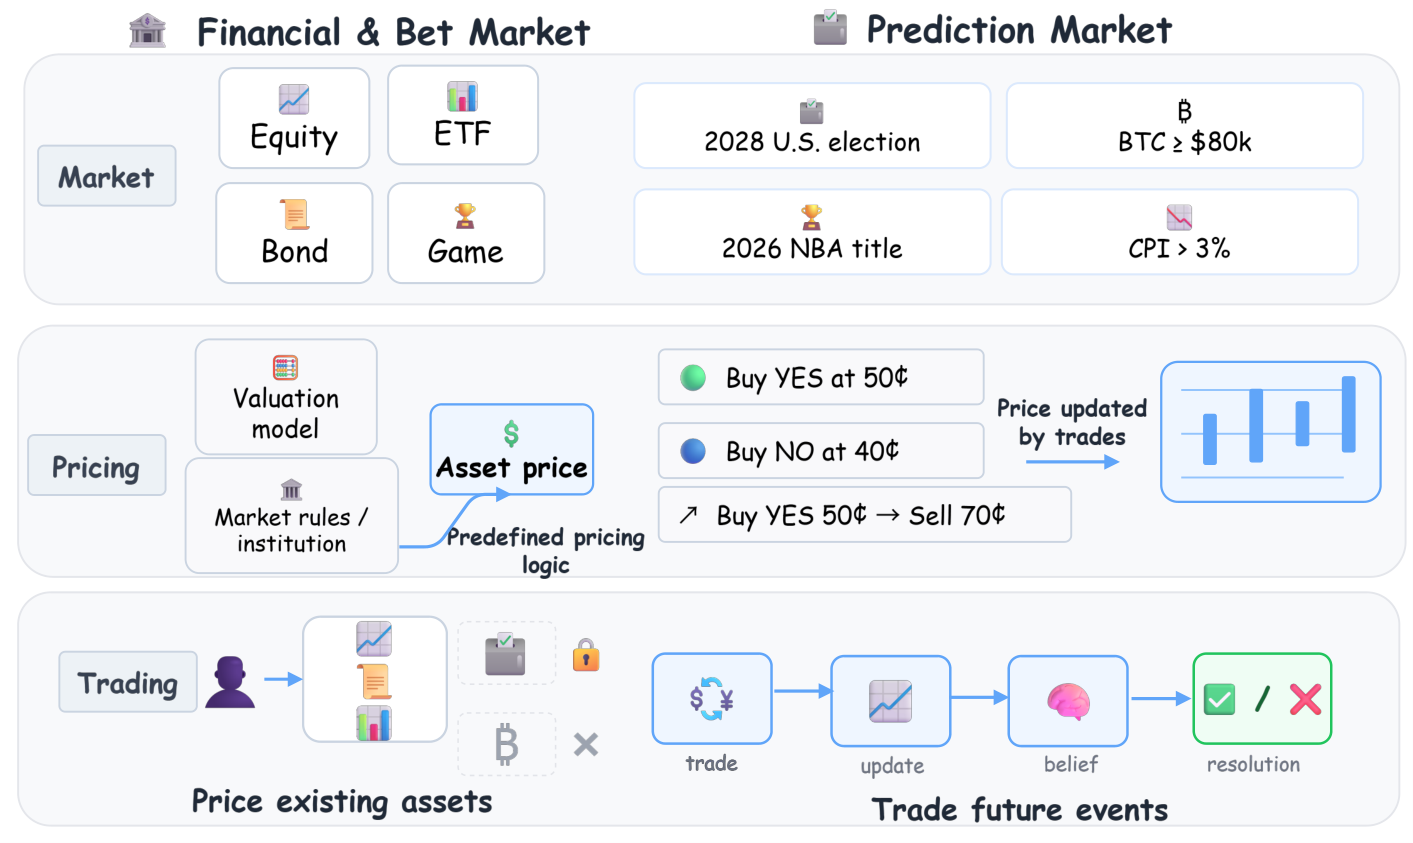
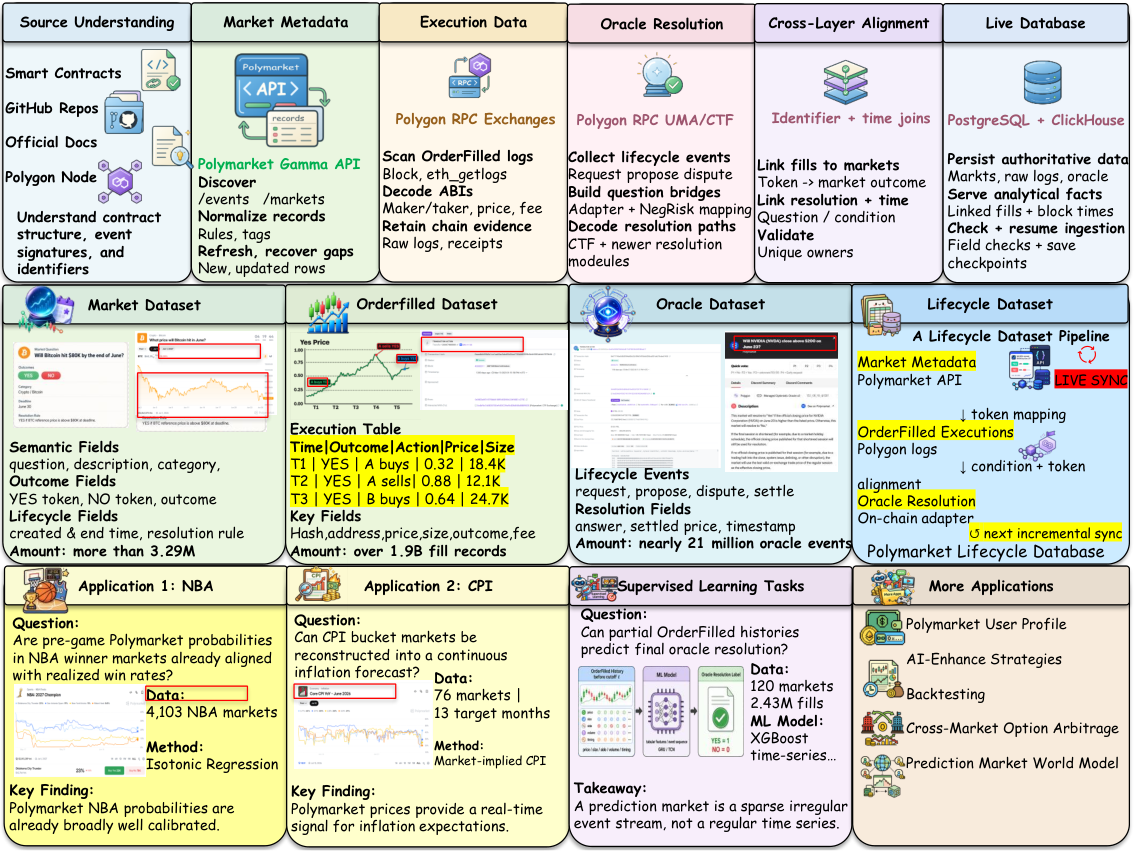
Update publications, news, and the undergraduate dates.
Add AlphaOpsBench and the FS2M figure, mark TxSum and the event-aware paper as accepted, and refresh the forecasting-economy teaser.

diff --git a/_pages/about.md b/_pages/about.md
@@ -18,32 +18,48 @@ Beyond research, I am an enthusiastic participant in hackathons and technical co
 
 # 🔥 News
 
-- *2026.04*: Preprint on a full-lifecycle dataset for Polymarket, from market creation through oracle settlement. [Paper](https://arxiv.org/abs/2604.20421) / [Project](https://www.polymonitor.club/)
-- *2026.04*: Preprint on event-aware forecasting over 8.9 million on-chain events from Pendle, Uniswap v3, Aave, and Morpho. [Paper](https://arxiv.org/abs/2604.20374)
+- *2026.09*: **AlphaOpsBench**: Benchmarking End-to-End Alpha Strategy Operationalization in Prediction Markets. [Paper](https://arxiv.org/abs/2609.31390)
+- *2026.09*: **Unlocking the Forecasting Economy: A Suite of Datasets for the Full Lifecycle of Prediction Market: [Experiments & Analysis]**. [Paper](https://arxiv.org/abs/2604.20421) / [Project](https://www.polymonitor.club/)
+- *2026*: **Towards Event-Aware Forecasting in DeFi** accepted at **KDD 2026**. [Paper](https://arxiv.org/abs/2604.20374)
 - *2026.02*: AlphaForgeBench, a benchmark that asks language models to write executable trading strategies, to appear at **KDD 2026**. [Paper](https://arxiv.org/abs/2602.18481)
-- *2025.12*: TxSum preprint on user-centered explanations of Ethereum transactions. [Paper](https://arxiv.org/abs/2512.06933)
+- *2026*: **TxSum** accepted at **EMNLP 2026**. [Paper](https://arxiv.org/abs/2512.06933)
 - *2024.11*: **FS2M** published in the *International Journal of Web Information Systems*. [Paper](https://doi.org/10.1108/IJWIS-06-2024-0169)
 
 <span class='anchor' id='publications'></span>
 
 # 📝 Publications
 
+<div class='paper-box'><div class='paper-box-image'><div><div class="badge">arXiv 2026</div><img src='images/publications/alphaops.png' alt="AlphaOpsBench" width="100%"></div></div>
+<div class='paper-box-text' markdown="1">
+
+AlphaOpsBench: Benchmarking End-to-End Alpha Strategy Operationalization in Prediction Markets
+
+**Huaiyu Jia**, Mingxuan Zhao, Jincheng Gao, Zifan Peng, Wentao Zhang, Siguang Li, Shuo Sun
+
+[**Paper**](https://arxiv.org/abs/2609.31390)
+
+- Tests whether a language model can turn a coarse prediction-market idea into an auditable executable program.
+- Built on 581 source-preserving strategy records and a lifecycle-scale Polymarket dataset, comparing direct generation with a staged design-then-code protocol.
+
+</div>
+</div>
+
 <div class='paper-box'><div class='paper-box-image'><div><div class="badge">arXiv 2026</div><img src='images/publications/forecasting.png' alt="Forecasting Economy" width="100%"></div></div>
 <div class='paper-box-text' markdown="1">
 
-Unlocking the Forecasting Economy: A Suite of Datasets for the Full Lifecycle of Prediction Market
+Unlocking the Forecasting Economy: A Suite of Datasets for the Full Lifecycle of Prediction Market: [Experiments & Analysis]
 
 **\*Huaiyu Jia**, \*Luofeng Zhou, Wentao Zhang, Lin William Cong, Siguang Li, Shuo Sun
 
 [**Paper**](https://arxiv.org/abs/2604.20421) | [**Code**](https://github.com/virusLuke3/polymonitor) | [**Project**](https://www.polymonitor.club/)
 
-- A continuously maintained relational dataset of Polymarket, covering market metadata, fill-level trades, and oracle resolution from October 2020 to March 2026.
-- The public interface is [PolyMonitor](https://www.polymonitor.club/). Huaiyu Jia and Luofeng Zhou contributed equally.
+- A continuously synchronized Polymarket lifecycle dataset from October 2020 onward: 3.29 million markets, 1.90 billion fills, and 21 million oracle events.
+- Experiments cover NBA calibration, CPI expectation reconstruction, and resolution prediction. The public interface is [PolyMonitor](https://www.polymonitor.club/). Huaiyu Jia and Luofeng Zhou contributed equally.
 
 </div>
 </div>
 
-<div class='paper-box'><div class='paper-box-image'><div><div class="badge">arXiv 2026</div><img src='images/publications/amm.png' alt="Event-aware AMM forecasting" width="100%"></div></div>
+<div class='paper-box'><div class='paper-box-image'><div><div class="badge">KDD 2026</div><img src='images/publications/amm.png' alt="Event-aware AMM forecasting" width="100%"></div></div>
 <div class='paper-box-text' markdown="1">
 
 Towards Event-Aware Forecasting in DeFi: Insights from On-chain Automated Market Maker Protocols
@@ -73,7 +89,7 @@ Wentao Zhang, Mingxuan Zhao, Jincheng Gao, Jieshun You, **Huaiyu Jia**, Yilei Zh
 </div>
 </div>
 
-<div class='paper-box'><div class='paper-box-image'><div><div class="badge">arXiv 2025</div><img src='images/publications/txsum.png' alt="TxSum" width="100%"></div></div>
+<div class='paper-box'><div class='paper-box-image'><div><div class="badge">EMNLP 2026</div><img src='images/publications/txsum.png' alt="TxSum" width="100%"></div></div>
 <div class='paper-box-text' markdown="1">
 
 TxSum: User-Centered Ethereum Transaction Understanding with Micro-Level Semantic Grounding
@@ -88,7 +104,8 @@ Zifan Peng, Jingyi Zheng, Yule Liu, **Huaiyu Jia**, Qiming Ye, Jingyu Liu, Xufen
 </div>
 </div>
 
-<div class='paper-box'><div class='paper-box-text' markdown="1">
+<div class='paper-box'><div class='paper-box-image'><div><div class="badge">IJWIS 2025</div><img src='images/publications/fs2m.png' alt="FS2M" width="100%"></div></div>
+<div class='paper-box-text' markdown="1">
 
 FS2M: Fuzzy Smart IoT Device Pairing Protocol via Speak to Microphone
 
@@ -117,4 +134,4 @@ FS2M: Fuzzy Smart IoT Device Pairing Protocol via Speak to Microphone
 # 📖 Education
 
 - *2024.09 - Present*, **Ph.D. in FinTech**, [The Hong Kong University of Science and Technology (Guangzhou)](https://www.hkust-gz.edu.cn/).
-- **B.Eng.**, School of Information and Software Engineering, [University of Electronic Science and Technology of China](https://en.uestc.edu.cn/).
+- *2020.09 - 2024.06*, **B.Eng.**, School of Information and Software Engineering, [University of Electronic Science and Technology of China](https://en.uestc.edu.cn/).
